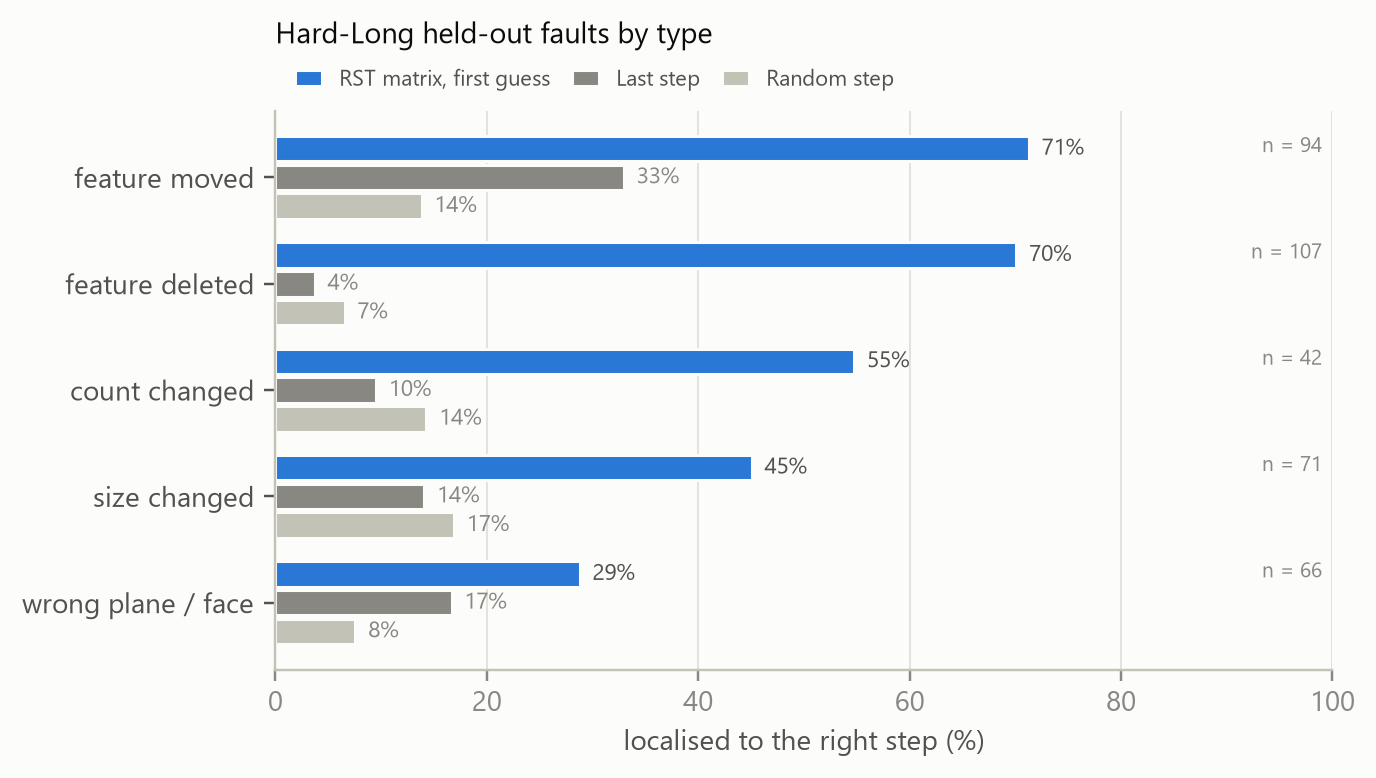
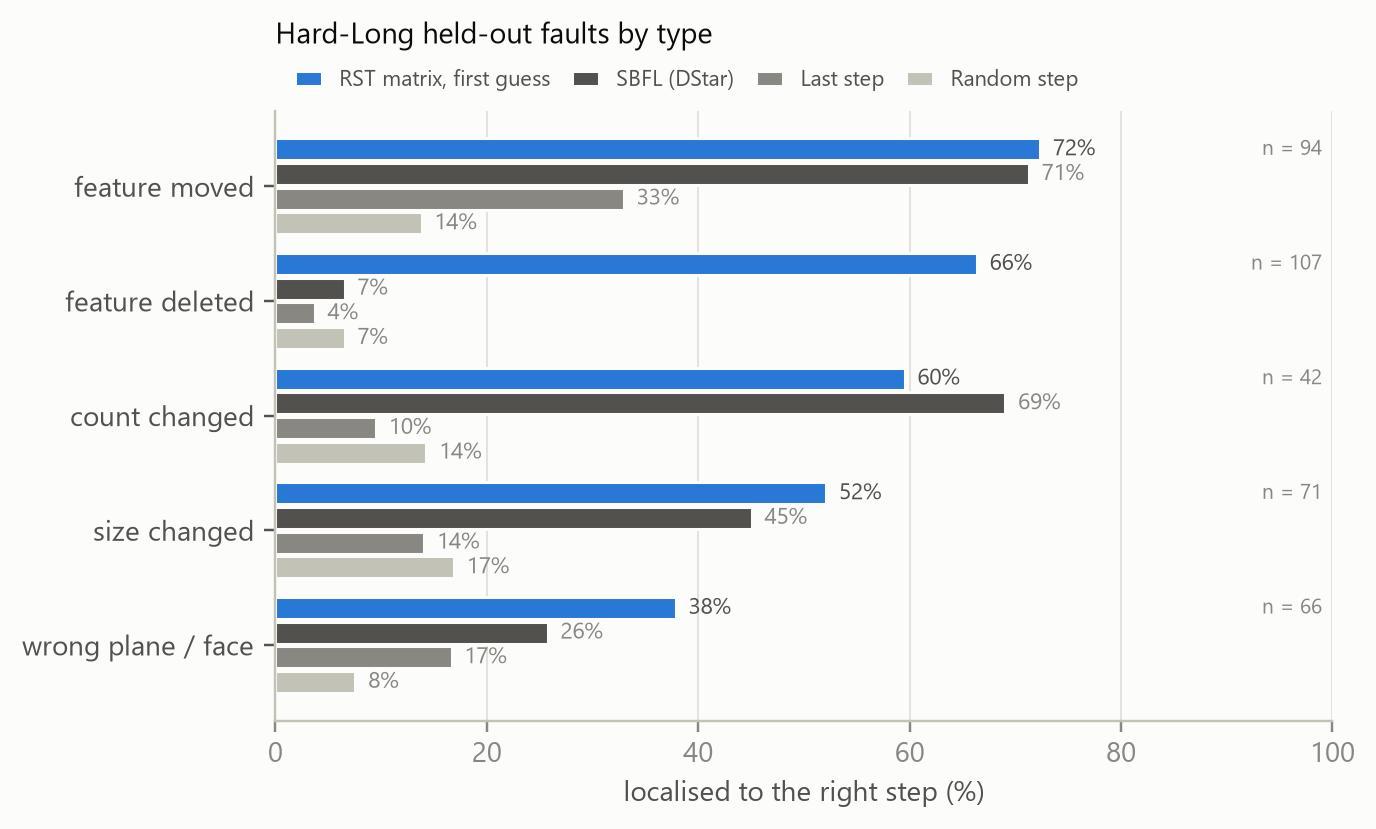
Held-out E3 for rules v3 and SBFL baselines; figures show SBFL; v1 merge/verify options
v3 on held-out seeds 1-2: Hard-Long 56.8 -> 59.5 % (16 gained / 6 lost), CADTestBench
56.6 -> 58.7 % (14 / 2). SBFL (DStar) matches the matrix on short CADTestBench programs and
trails by ~20 pts on Hard-Long, mostly on deleted features.

diff --git a/scripts/rst/figures.py b/scripts/rst/figures.py
@@ -32,6 +32,11 @@ INK, INK2, MUTED = "#0b0b0b", "#52514e", "#898781"
 GRID, AXIS = "#e1e0d9", "#c3c2b7"
 RST_BLUE, RST_BLUE_LIGHT = "#2a78d6", "#86b6ef"
 BASE_DARK, BASE_LIGHT = "#898781", "#c3c2b7"
+SBFL_GREY = "#52514e"         # strongest baseline: darkest neutral
+
+# E3 records re-scored by scripts/rst/e3_rescore.py (every localiser scored with the same repair region)
+FIG_RULES = "v3"
+E3_RECORDS = ROOT / "runs" / "e3_rescored" / f"{FIG_RULES}_region{FIG_RULES}"
 GOOD, CRITICAL = "#0ca30c", "#d03b3b"
 CHECK, CROSS = "✓", "✗"
 SYMBOL_FONT = "DejaVu Sans"   # Segoe UI has no check / cross glyphs
@@ -55,7 +60,7 @@ def wilson(k, n, z=1.96):
 def records(base, seeds=(1, 2)):
     rows = []
     for s in seeds:
-        f = ROOT / "runs" / "e3" / f"{base}_s{s}" / "records.jsonl"
+        f = E3_RECORDS / f"{base}_s{s}" / "records.jsonl"
         if f.exists():
             rows += [json.loads(l) for l in open(f, encoding="utf-8") if l.strip()]
     return rows
@@ -87,13 +92,14 @@ def fig_e3_localisation():
     groups = [("Hard-Long\n(~9.5 steps)", records("hardlong_entry")),
               ("CADTestBench refs\n(~2-3 steps)", records("cadtestbench-detailed_oracle_thr"))]
     series = [("RST matrix, first guess", "matrix_hit", RST_BLUE), ("RST matrix, within top 3", "matrix_top3", RST_BLUE_LIGHT),
-              ("Last step", "last_hit", BASE_DARK), ("Random step", "random_hit", BASE_LIGHT)]
-    fig, ax = plt.subplots(figsize=(6.2, 3.3))
-    h, gap = 0.18, 0.03
+              ("SBFL (DStar)", "dstar_hit", SBFL_GREY), ("Last step", "last_hit", BASE_DARK),
+              ("Random step", "random_hit", BASE_LIGHT)]
+    fig, ax = plt.subplots(figsize=(6.2, 3.6))
+    h, gap = 0.15, 0.025
     for gi, (_, rows) in enumerate(groups):
         n = len(rows)
         for si, (label, key, color) in enumerate(series):
-            y = gi + (si - 1.5) * (h + gap)
+            y = gi + (si - (len(series) - 1) / 2) * (h + gap)
             v = rate(rows, key)
             ax.barh(y, v * 100, height=h, color=color, label=label if gi == 0 else None, edgecolor=SURFACE, linewidth=1)
             end = v * 100
@@ -109,7 +115,7 @@ def fig_e3_localisation():
     ax.set_xlim(0, 104)
     ax.set_xlabel("injected faults localised to the right step (%)")
     _grid(ax)
-    _legend_above(ax, 4)
+    _legend_above(ax, 5)
     ax.set_title("Which step broke the part? (held-out faults, no target geometry)", loc="left", fontsize=9.5,
                  color=INK, pad=22)
     save(fig, "fig_e3_localisation")
@@ -120,26 +126,26 @@ def fig_e3_by_fault():
     names = {"feature_delete": "feature deleted", "placement_shift": "feature moved", "count_change": "count changed",
              "param_shift": "size changed", "wrong_workplane": "wrong plane / face"}
     kinds = sorted(names, key=lambda k: -rate([r for r in rows if r["kind"] == k], "matrix_hit"))
-    series = [("RST matrix, first guess", "matrix_hit", RST_BLUE), ("Last step", "last_hit", BASE_DARK),
-              ("Random step", "random_hit", BASE_LIGHT)]
-    fig, ax = plt.subplots(figsize=(6.2, 3.3))
-    h, gap = 0.24, 0.03
+    series = [("RST matrix, first guess", "matrix_hit", RST_BLUE), ("SBFL (DStar)", "dstar_hit", SBFL_GREY),
+              ("Last step", "last_hit", BASE_DARK), ("Random step", "random_hit", BASE_LIGHT)]
+    fig, ax = plt.subplots(figsize=(6.2, 3.6))
+    h, gap = 0.19, 0.025
     for ki, k in enumerate(kinds):
         sub = [r for r in rows if r["kind"] == k]
         for si, (label, key, color) in enumerate(series):
-            y = ki + (si - 1) * (h + gap)
+            y = ki + (si - (len(series) - 1) / 2) * (h + gap)
             v = rate(sub, key)
             ax.barh(y, v * 100, height=h, color=color, label=label if ki == 0 else None, edgecolor=SURFACE, linewidth=1)
             ax.text(v * 100 + 1.2, y, f"{100 * v:.0f}%", va="center", fontsize=7.5,
                     color=INK2 if key == "matrix_hit" else MUTED)
-        ax.text(99, ki - 1.5 * (h + gap) + 0.02, f"n = {len(sub)}", fontsize=7, color=MUTED, ha="right", va="top")
+        ax.text(99, ki - (len(series) / 2) * (h + gap) + 0.02, f"n = {len(sub)}", fontsize=7, color=MUTED, ha="right", va="top")
     ax.set_yticks(range(len(kinds)))
     ax.set_yticklabels([names[k] for k in kinds])
     ax.invert_yaxis()
     ax.set_xlim(0, 100)
     ax.set_xlabel("localised to the right step (%)")
     _grid(ax)
-    _legend_above(ax, 3)
+    _legend_above(ax, 4)
     ax.set_title("Hard-Long held-out faults by type", loc="left", fontsize=9.5, color=INK, pad=22)
     save(fig, "fig_e3_by_fault")
 
@@ -207,7 +213,7 @@ def fig_teaser_matrix(entry_id=None):
         print("no suitable teaser example found")
         return None
     e, mut, traj, stmts = chosen
-    blame = localize(traj)[0]
+    blame = localize(traj, FIG_RULES)[0]
     M = traj.M
     T, N = M.shape
     failing = traj.failing()

diff --git a/data/hard_long/verify.py b/data/hard_long/verify.py
@@ -1,8 +1,9 @@
 """Re-verify every Hard-Long entry with the current code (reference passes its suite, >= 8 states,
 3 single-statement mutants all caught). Prints a table and exits non-zero if any entry fails.
 
-    python data/hard_long/verify.py            # check only
-    python data/hard_long/verify.py --update   # also refresh n_rows / bbox / volume / mutant_kills in the file
+    python data/hard_long/verify.py                        # check hard_long_v0.jsonl only
+    python data/hard_long/verify.py --update               # also refresh n_rows / bbox / volume / mutant_kills
+    python data/hard_long/verify.py --version v1 --update  # the same for hard_long_v1.jsonl
 """
 
 import json
@@ -19,7 +20,9 @@ from check_entry import check
 
 def main():
     update = "--update" in sys.argv
-    rows = [json.loads(l) for l in open(HERE / "hard_long_v0.jsonl", encoding="utf-8") if l.strip()]
+    version = sys.argv[sys.argv.index("--version") + 1] if "--version" in sys.argv else "v0"
+    path = HERE / f"hard_long_{version}.jsonl"
+    rows = [json.loads(l) for l in open(path, encoding="utf-8") if l.strip()]
     bad = 0
     print(f"{'id':8s} {'family':26s} {'ok':3s} {'rows':>4s} {'reqs':>4s} kills")
     with tempfile.TemporaryDirectory(ignore_cleanup_errors=True) as work:
@@ -33,10 +36,10 @@ def main():
                   f"{out.get('requirements', 0):>4} {out.get('mutant_kills', '')} {out.get('why', '')}", flush=True)
     print(f"{len(rows) - bad}/{len(rows)} entries pass")
     if update:
-        with open(HERE / "hard_long_v0.jsonl", "w", encoding="utf-8") as f:
+        with open(path, "w", encoding="utf-8") as f:
             for e in rows:
                 f.write(json.dumps(e) + "\n")
-        print("updated", HERE / "hard_long_v0.jsonl")
+        print("updated", path)
     sys.exit(1 if bad else 0)
 
 

diff --git a/data/hard_long/merge_parts.py b/data/hard_long/merge_parts.py
@@ -1,27 +1,32 @@
-"""Merge the per-batch files in data/hard_long/parts/ into hard_long_v0.jsonl (sorted by id, no duplicates).
+"""Merge the per-batch files into one split file (sorted by id, no duplicates).
 
-    python data/hard_long/merge_parts.py
+    python data/hard_long/merge_parts.py                  # parts/part_*.jsonl    -> hard_long_v0.jsonl
+    python data/hard_long/merge_parts.py --version v1     # parts_v1/part_*.jsonl -> hard_long_v1.jsonl
 """
 
 import json
+import sys
 from pathlib import Path
 
 HERE = Path(__file__).resolve().parent
 
 
 def main():
+    version = sys.argv[sys.argv.index("--version") + 1] if "--version" in sys.argv else "v0"
+    out = HERE / f"hard_long_{version}.jsonl"
+    parts = HERE / ("parts" if version == "v0" else f"parts_{version}")
     entries = {}
-    for f in [HERE / "hard_long_v0.jsonl"] + sorted((HERE / "parts").glob("part_*.jsonl")):
+    for f in [out] + sorted(parts.glob("part_*.jsonl")):
         if not f.exists():
             continue
         for line in open(f, encoding="utf-8"):
             if line.strip():
                 e = json.loads(line)
                 entries.setdefault(e["id"], e)
-    with open(HERE / "hard_long_v0.jsonl", "w", encoding="utf-8") as f:
+    with open(out, "w", encoding="utf-8") as f:
         for eid in sorted(entries):
             f.write(json.dumps(entries[eid]) + "\n")
-    print(f"{len(entries)} entries -> {HERE / 'hard_long_v0.jsonl'}")
+    print(f"{len(entries)} entries -> {out}")
 
 
 if __name__ == "__main__":

diff --git a/docs/figures/README.md b/docs/figures/README.md
@@ -1,8 +1,9 @@
 # Paper figures
 
 Generated by `python scripts/rst/figures.py` from the local (CPU-only) experiments in `runs/`; PNG for review,
-PDF for the paper. Numbers are the held-out E3 runs (seeds 1–2, blame rules v2); see
-`docs/research/NUMBERS_TO_BEAT.md` §5.
+PDF for the paper (PDFs are git-ignored; regenerate them). E3 numbers are the held-out mutant seeds 1–2,
+re-scored with `scripts/rst/e3_rescore.py` under blame rules v3 (`FIG_RULES` in the script), every localiser
+scored with the same repair region; see `docs/research/NUMBERS_TO_BEAT.md` §5.
 
 **fig_teaser_matrix** — *Requirement-satisfaction trajectory.* Hard-Long part HL_026 (fixture plate) with a
 wrong bolt count injected into step S4 (`cboreHole`). Each row is a requirement written from the prompt; each
@@ -13,14 +14,17 @@ the fault was injected, whereas the usual "repair the last step" guess (S12) wou
 reference geometry is used.
 
 **fig_e3_localisation** — *Fault localisation without target geometry.* Share of injected faults for which the
-blamed step is the faulty one (a hit counts the blamed statement together with the statements it depends on).
-On Hard-Long (~9.5 construction steps) the matrix's first guess is right 57 % of the time (95 % Wilson interval
-shown), about 5× a random step and 3.5× the last step. On the short CADTestBench reference programs (2–3 steps)
-random guessing is already at 45 %, so the same accuracy is a much smaller margin.
+blamed step is the faulty one (a hit counts the blamed statement together with the statements it depends on,
+i.e. the region the repair may edit). Baselines: spectrum-based fault localisation (DStar, requirements as
+tests), the last step, a random step. On Hard-Long (~9.5 construction steps) the matrix's first guess is right
+59 % of the time (95 % Wilson interval shown), against 40 % for SBFL and 11 % for a random step. On the short
+CADTestBench reference programs (2–3 steps) a random step is already right 46 % of the time and SBFL equals
+the matrix (60 % vs 59 %): step-level blame only separates methods on long programs.
 
-**fig_e3_by_fault** — *Hard-Long localisation by fault type.* Deleted and moved features are localised in about
-70 % of cases; changed sizes (45 %) and features built on the wrong plane or face (29 %) are the weak spots,
-because their effect reaches the failing requirement through later geometry-dependent selectors.
+**fig_e3_by_fault** — *Hard-Long localisation by fault type.* The matrix's lead over SBFL comes from deleted
+features (66 % vs 7 %: SBFL can only rank code that exists), features built on the wrong plane or face (38 % vs
+26 %) and changed sizes (52 % vs 45 %); moved features are a tie and SBFL is better on changed counts (69 % vs
+60 %).
 
 **fig_program_length** — *Existing benchmarks are too short for step-level attribution.* Number of construction
 steps that change the solid (after rewriting each reference program to one feature per statement). CADSmith-100

diff --git a/docs/research/NUMBERS_TO_BEAT.md b/docs/research/NUMBERS_TO_BEAT.md
@@ -96,6 +96,8 @@ full < no-vision < zero-shot survives; dimensional errors (bbox, volume) make th
 | **E3 attribution, CADTestBench references** (oracle spec, threaded; held-out seeds 1–2, rules v2; 588 faults) | matrix first blame **57 %** (95 % CI 53–61), top-3 **84 %**; random 45 %, last step 39 % | first-blame gate (≥ 70 %) not met; short programs make random strong |
 | **E3 attribution, Hard-Long** (own suites; held-out seeds 1–2, rules v2; 380 faults, ~9.5 steps) | matrix first blame **57 %** (52–62), top-3 **68 %**; random **11 %**, last step **16 %**; deleted features 70 %, moved features 71 %, wrong counts 55 %, parameter changes 45 %, wrong plane 29 % | ~5x random; first-blame gate not met; LLM comparison pending (Bedrock) |
 | E3 development set (seed 0; rules were tuned on it) | CADTestBench 55 % / 80 %; Hard-Long 56 % / 67 % | not reported as a result |
+| **E3 spectrum-based baselines** (SBFL with requirements as tests; same held-out faults, v2 region) | CADTestBench: Ochiai **57 %**, DStar **59 %** (matrix v2 57 %); Hard-Long: Ochiai 39 %, DStar 39 % (matrix 57 %) | SBFL matches the matrix on short programs; the matrix leads by ~18 pts on long ones |
+| **E3 rules v3** (frozen after seed-0 development; held-out seeds 1–2; all localisers scored with the v3 region) | Hard-Long **59.5 %** (54–64), top-3 71 %, vs v2 56.8 %: 16 faults gained / 6 lost (McNemar p = 0.053); wrong plane 29 → 38 %, size changes 45 → 52 %, deleted features 70 → 66 %. CADTestBench **58.7 %** (55–63), top-3 86 %, vs v2 56.6 %: 14 / 2 (p = 0.004); DStar 60 %, Ochiai 58 % | improves on both; confirmatory test on the 40 fresh Hard-Long v1 parts pending |
 
 ## Final table we are aiming for (paper Table 1)
 
